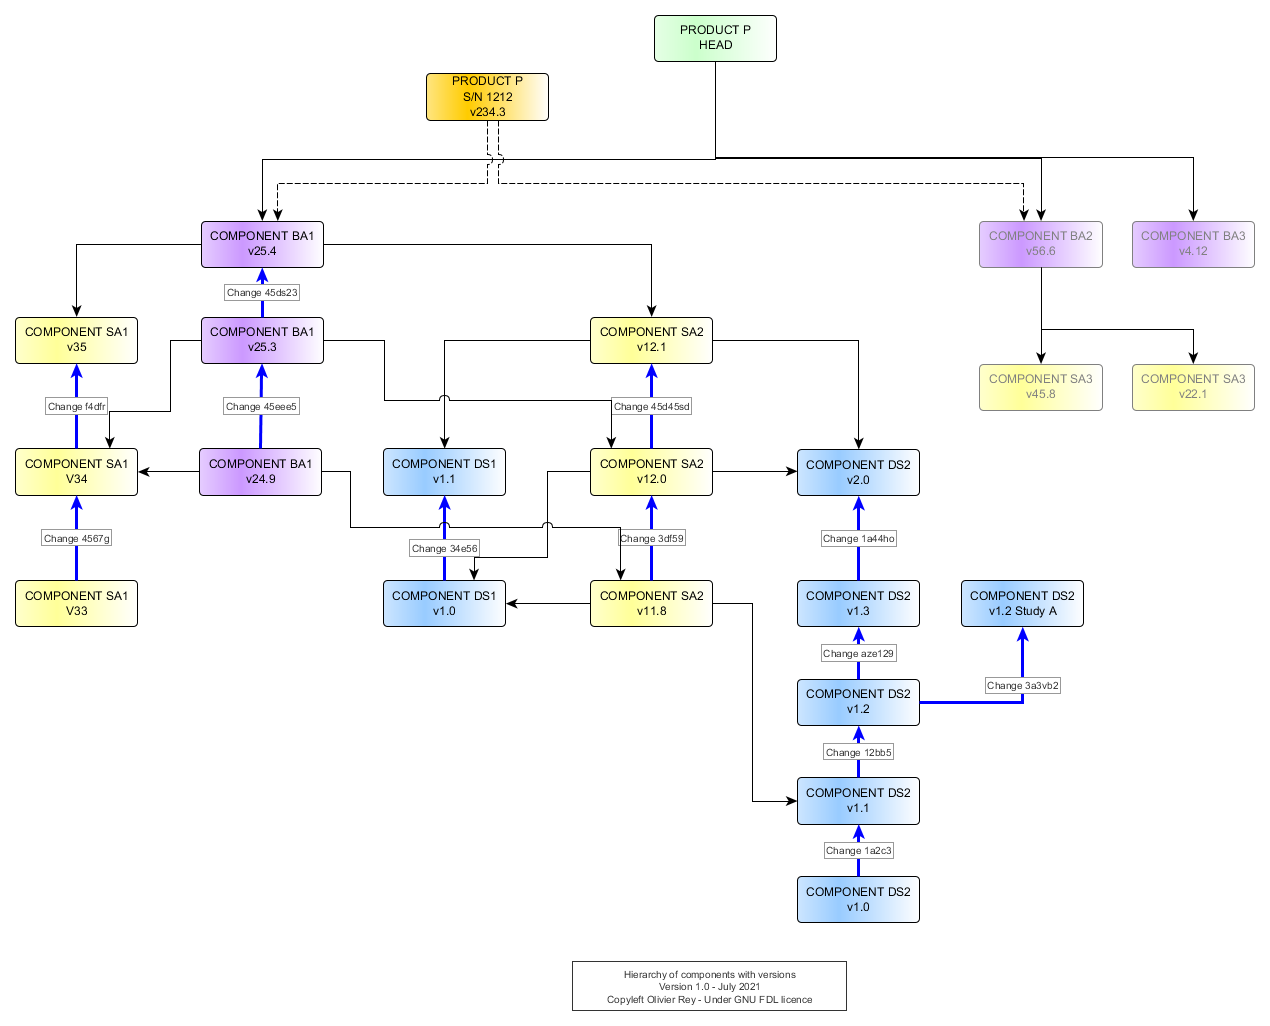
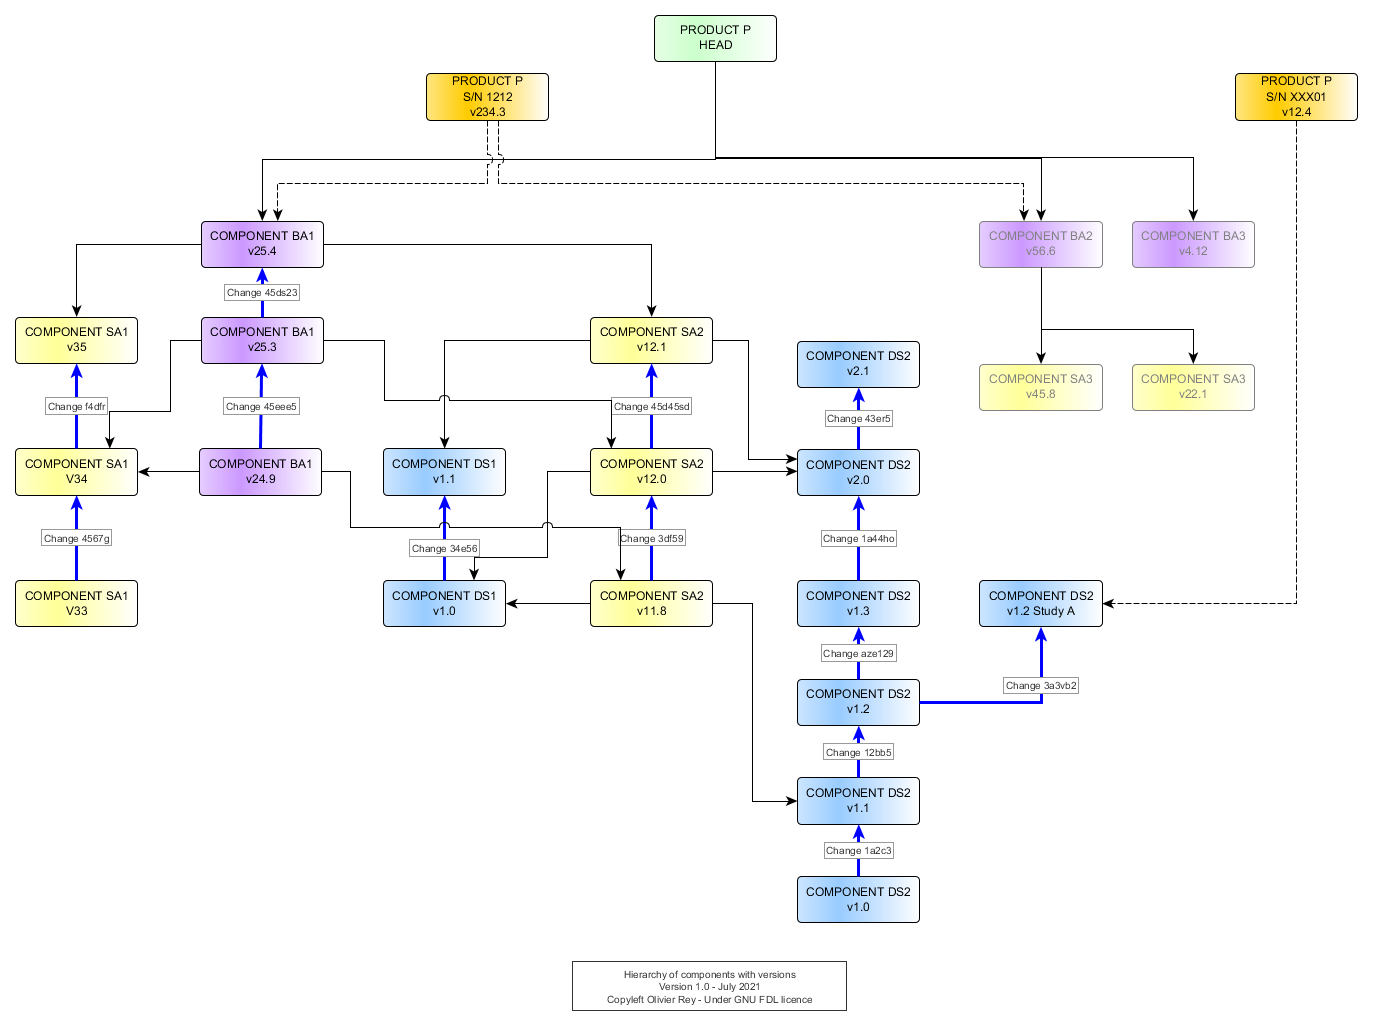
conf version intermediaire

diff --git a/docs/articles/conf-mgt.md b/docs/articles/conf-mgt.md
@@ -259,16 +259,57 @@ This way of creating graph data is another way (compared to the filtering approa
 The notion of applicability, as we saw it in the first part of the article, is twofold:
 
 * Indicate that a specific product S/N is using a specific component;
-* Indicate that, for future S/N, from a certain S/N, the component to be used should be a certain component in a certain version.
+* Indicate that, for future S/N, from a certain S/N, the component to be used should be a certain component in a certain version (something called sometimes effectivity).
 
-Looking at the tree of versions, for instance for `DS2`, 
+Looking at the tree of versions, for instance for `DS2`, we can see that we can decorrelate the versions of `DS2` and the versions of `SA2`: When `SA2` was only upgraded once, the `DS2` design solution had 2 intermediate versions that were not used to collaborate to the small assembly (`v1.2` and `v1.7`).
+
+In a graph mode, the applicability is divided into 2 concepts:
+
+* Real usage: A certain component really uses some other component in a certain version. The version used is *de facto* applicable to the component that aggregates the sub-component.
+* Future applicability: It is defined by the set of components that can be used in the future. In a certain way, this is an open choice because all releases of all components are for ever available in the system.
+
+In Figure 6, if we suppose that the components that we can produce are linked to the last one, we will be able to produce products using `BA1` in version `v25.4`, `BA2` in version `v56.6` and `BA3` in version `v4.12`, and all their graph of dependencies.
+
+We can note also, in Figure 6, that a specific "study S/N" `XXX01` points to a fork of a design solution located in the past (`DS2` in version `v1.2 study A`). That enables to potentially come back to a design solution that could be better in the past and to start from it.
+
+### Configuration
+
+If the dynamic filtering model was requiring a more or less complex algorithm to find the real S/N, the Figure 6 shows that the S/N (in a certain version) is the head of a tree of components that is defined down to the level that is relevant for the proper industry. And, each time a component is changing of release, an impact study can be led to see if this change should also impact the S/N that must be produced.
+
+The graph data approach enables, in that case, that all versions of the S/N configuration are secured forever inside the system. By the way, we can see here that the system can be called a "Product Lifecycle Management (PLM)" system because it contains the full history of the product line, of the product components (whatever the level) and of all the serial numbers. In a certain way, all configurations are there, are "solved", are calculated" (because there are no more calculation).
+
+The fact that all versions of the configuration are secured inside a PLM is critical for many processes, especially the concurrent engineering ones. Let's take an example.
+
+Let us suppose the engineering sent the version `v12.0` of `SA2` to the manufacturing preparation. Some people will work on the assembling instructions of this version of the small assembly pointing to specific versions of design solution `DS1` and `DS2`. Meanwhile, the engineering department worked in the version `v2.1` of the `DS2`. Everyone can work in parallel without having any conflict.
+
+### Change management
+
+In the graph model, changes will tag the various links between two versions of the same component. For a certain product instance (serial number), finding its delta of changes compared to a certain version in the history (for instance a certified baseline) will consist in aggregating all the changes that led to all versions of all its sub-components.
+
+In Figure 6, the component `SA2` changes version from `v11.8` to `v12.0` while skipping two versions of `DS2`. In a certain way, the change `3df59` corresponds to the union of changes `12bb5`, `aze129` and `1a44ho` (because also `v11.8` and `v12.0` of `SA2` are using the same version of `DS1`.
+
+In order to be able to commit, at the `SA2` level, the change, specific digital tools enabling to compare directly version `v2.0` and `v1.1` of `DS1` are very important. Contrary to the change management we saw in the first part of the article, each real state of each component is secured and there is no need to create tricks to recompose the true component or design solution.
+
+Using graph data in PLM enables to put the change *behind* the product and to enter the world of PLM, rather to keep working in a CLM world.
+
+### More PLM features
+
+Many features that are considered as basic and standard by the software industry would be of great interest in the industries that are not using PLM.
+
+For instance, the fixes on some components (retrofits) can be solved by forking a component (like `DS2` in version `v1.2 study A`) to fix it in a parallel branch. In order to get back the fix on the main branch, we will create a link between the version in the branch and the version in the main branch. Branching can then be used as in the software industry (see [branching](https://en.wikipedia.org/wiki/Branching_(version_control) "branching")). For sure, some "merge" strategy will have to be defined, but even with 3D data, a lot of software can be done to ease this process.
+
+We already saw the capability of studies that graph data offer: At any moment it is possible to create fake products in which specific components, applicable today, are replaced by:
+
+* New components, fruit of new studies;
+* Fake components;
+* Old components;
+* Any other kind of situation.
+
+If we had to this capability, the capability of merging, that means that studies 
+The PLM can become a real place where
 
 
 
-
-
-
-We already mentioned the S/N as being a unique identifier of a product. 
 
 
 -------
